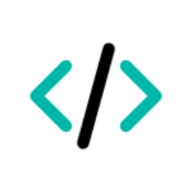
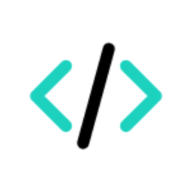
Modified teal color project wide

Changed region(s): [[0.625, 0.3125, 0.8438, 0.6875], [0.1562, 0.3125, 0.375, 0.6875]]

diff --git a/src/components/Navigation.tsx b/src/components/Navigation.tsx
@@ -136,7 +136,7 @@ function FlyoutNavigation() {
                                                                 location
                                                                 ? "bg-gray-100 text-gray-900"
                                                                 : "text-gray-600 hover:bg-gray-50 hover:text-gray-900",
-                                                            "group flex items-center px-2 py-2 text-lg md:text-xl font-medium rounded-md focus-outline focus:ring-teal-500 motion-safe:transition-all"
+                                                            "group flex items-center px-2 py-2 text-lg md:text-xl font-medium rounded-md focus-outline focus:ring-teal-400 motion-safe:transition-all"
                                                         )}
                                                         onClick={() =>
                                                             setIsOpen(false)
@@ -146,8 +146,8 @@ function FlyoutNavigation() {
                                                             className={classNames(
                                                                 link.location ==
                                                                     location
-                                                                    ? "text-teal-500"
-                                                                    : "text-gray-400 group-hover:text-teal-500",
+                                                                    ? "text-teal-400"
+                                                                    : "text-gray-400 group-hover:text-teal-400",
                                                                 "mr-4 flex-shrink-0 h-8 w-8 motion-safe:transition-all"
                                                             )}
                                                             aria-hidden="true"
@@ -197,14 +197,14 @@ function StaticNavigation() {
                                                 link.location == location
                                                     ? "bg-gray-100 text-gray-900"
                                                     : "text-gray-600 hover:bg-gray-50 hover:text-gray-900",
-                                                "group flex items-center px-2 py-2 text-lg md:text-xl font-medium rounded-md focus-outline focus:ring-teal-500 motion-safe:transition-all"
+                                                "group flex items-center px-2 py-2 text-lg md:text-xl font-medium rounded-md focus-outline focus:ring-teal-400 motion-safe:transition-all"
                                             )}
                                         >
                                             <link.icon
                                                 className={classNames(
                                                     link.location == location
-                                                        ? "text-teal-500"
-                                                        : "text-gray-400 group-hover:text-teal-500 motion-safe:transition-all",
+                                                        ? "text-teal-400"
+                                                        : "text-gray-400 group-hover:text-teal-400 motion-safe:transition-all",
                                                     "mr-4 flex-shrink-0 h-8 w-8"
                                                 )}
                                                 aria-hidden="true"

diff --git a/src/components/About.tsx b/src/components/About.tsx
@@ -57,7 +57,7 @@ const About = forwardRef<HTMLElement>((props, ref) => {
                     <Link
                         href="/#intro"
                         scroll={false}
-                        className="hidden md:inline-flex items-center bg-teal-500 hover:bg-teal-600 rounded-full border-none px-6 py-2 text-white text-lg md:text-xl font-medium shadow-lg hover:cursor-pointer focus-outline focus:ring-teal-500 motion-safe:transition-all"
+                        className="hidden md:inline-flex items-center bg-teal-400 hover:bg-teal-500 rounded-full border-none px-6 py-2 text-white text-lg md:text-xl font-medium shadow-lg hover:cursor-pointer focus-outline focus:ring-teal-400 motion-safe:transition-all"
                     >
                         Learn more
                         <DownArrowIcon

diff --git a/src/components/Contact.tsx b/src/components/Contact.tsx
@@ -14,7 +14,7 @@ const Contact = forwardRef<HTMLElement>((props, ref) => {
                     <Link
                         href="mailto:mail@johnbaker.ca"
                         scroll={false}
-                        className="inline-flex items-center bg-teal-500 hover:bg-teal-600 rounded-full border-none px-6 py-2 text-white text-lg md:text-xl font-medium shadow-lg hover:cursor-pointer focus-outline focus:ring-teal-500 motion-safe:transition-all"
+                        className="inline-flex items-center bg-teal-400 hover:bg-teal-500 rounded-full border-none px-6 py-2 text-white text-lg md:text-xl font-medium shadow-lg hover:cursor-pointer focus-outline focus:ring-teal-400 motion-safe:transition-all"
                     >
                         Contact Me
                         <EnvelopeIcon

diff --git a/src/components/Projects/index.tsx b/src/components/Projects/index.tsx
@@ -83,7 +83,7 @@ export default function Project({
                                             href={link.url}
                                             target="_blank"
                                             rel="noopener noreferrer"
-                                            className="flex items-center px-2 py-2 rounded-md text-gray-400 hover:text-teal-500 focus-outline focus:ring-teal-500 motion-safe:transition-all"
+                                            className="flex items-center px-2 py-2 rounded-md text-gray-400 hover:text-teal-400 focus-outline focus:ring-teal-400 motion-safe:transition-all"
                                         >
                                             <span className="sr-only">
                                                 {link.name}

diff --git a/src/components/Clients.tsx b/src/components/Clients.tsx
@@ -153,7 +153,7 @@ const Clients = forwardRef<HTMLElement>((props, ref) => {
                                             {client.name}
                                         </span>
                                         <client.logo
-                                            className="aspect-[3/2] text-slate-600 md:group-hover:text-teal-500 md:group-hover:scale-110 motion-safe:transition-all"
+                                            className="aspect-[3/2] text-slate-600 md:group-hover:text-teal-400 md:group-hover:scale-110 motion-safe:transition-all"
                                             aria-hidden="true"
                                         />
                                     </Link>

diff --git a/src/components/Footer.tsx b/src/components/Footer.tsx
@@ -47,7 +47,7 @@ export default function Footer() {
                                 href={link.href}
                                 target="_blank"
                                 rel="noopener noreferrer"
-                                className="flex items-center px-2 py-2 rounded-md text-gray-400 hover:text-teal-500 focus-outline focus:ring-teal-500 motion-safe:transition-all"
+                                className="flex items-center px-2 py-2 rounded-md text-gray-400 hover:text-teal-400 focus-outline focus:ring-teal-400 motion-safe:transition-all"
                             >
                                 <span className="sr-only">{link.name}</span>
                                 <link.icon

diff --git a/src/assets/svg/icons/CodeIcon.tsx b/src/assets/svg/icons/CodeIcon.tsx
@@ -23,7 +23,7 @@ export default function CodeIcon({
                 strokeLinecap="round"
                 strokeLinejoin="round"
                 d="M17.25,6.75l5.25,5.25-5.25,5.25m-10.5,0L1.5,12,6.75,6.75"
-                style={{ fill: "none", stroke: "#00b6a6" }}
+                style={{ fill: "none", stroke: "#1cd2be" }}
             />
         </svg>
     );
